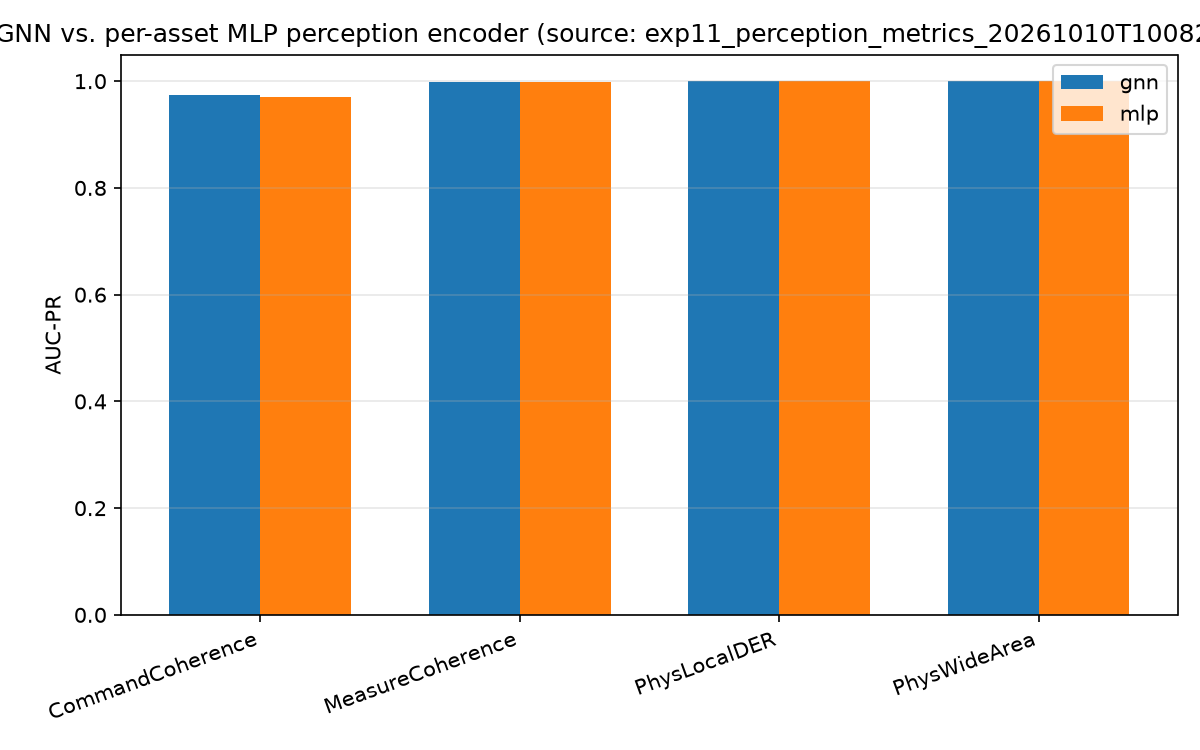
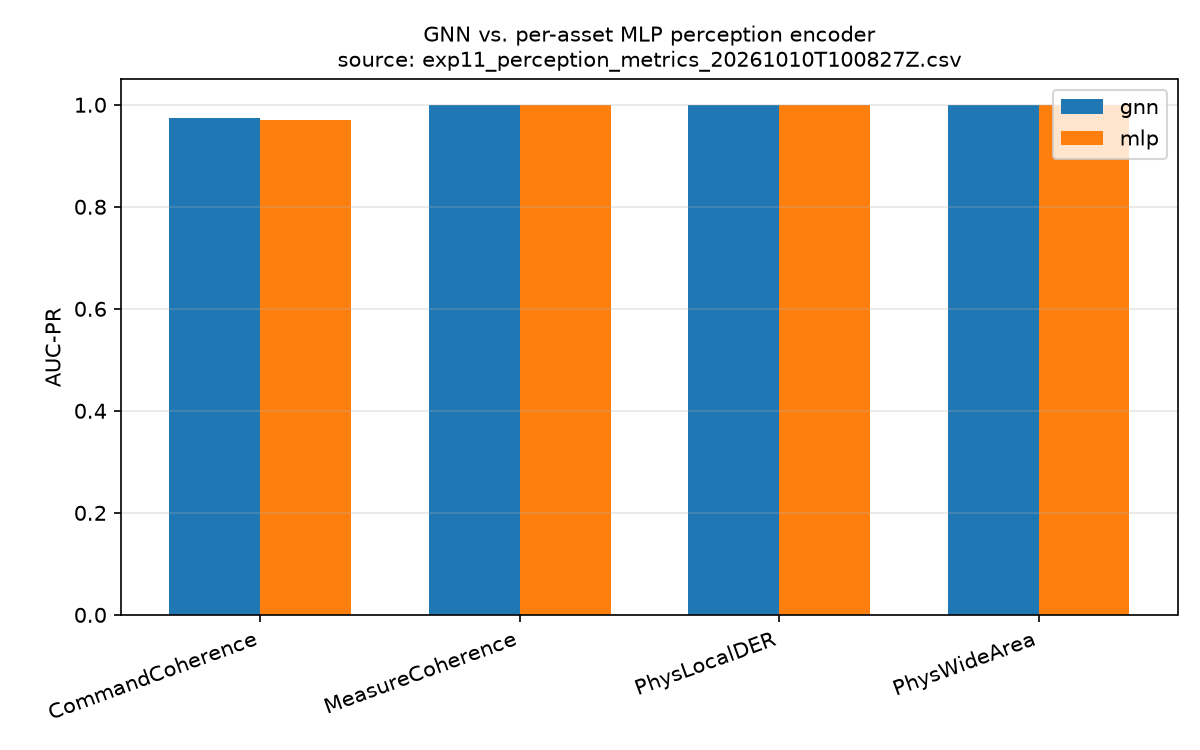
Wrap GNN-vs-MLP figure title so it is not clipped

diff --git a/scripts/build_summary_tables.py b/scripts/build_summary_tables.py
@@ -239,7 +239,7 @@ def figure_gnn_vs_mlp() -> None:
     ax.set_xticklabels(targets, rotation=20, ha="right")
     ax.set_ylabel("AUC-PR")
     ax.set_ylim(0, 1.05)
-    ax.set_title(f"GNN vs. per-asset MLP perception encoder (source: {path.name})")
+    ax.set_title(f"GNN vs. per-asset MLP perception encoder\nsource: {path.name}", fontsize=10)
     ax.legend()
     ax.grid(alpha=0.3, axis="y")
     fig.tight_layout()
